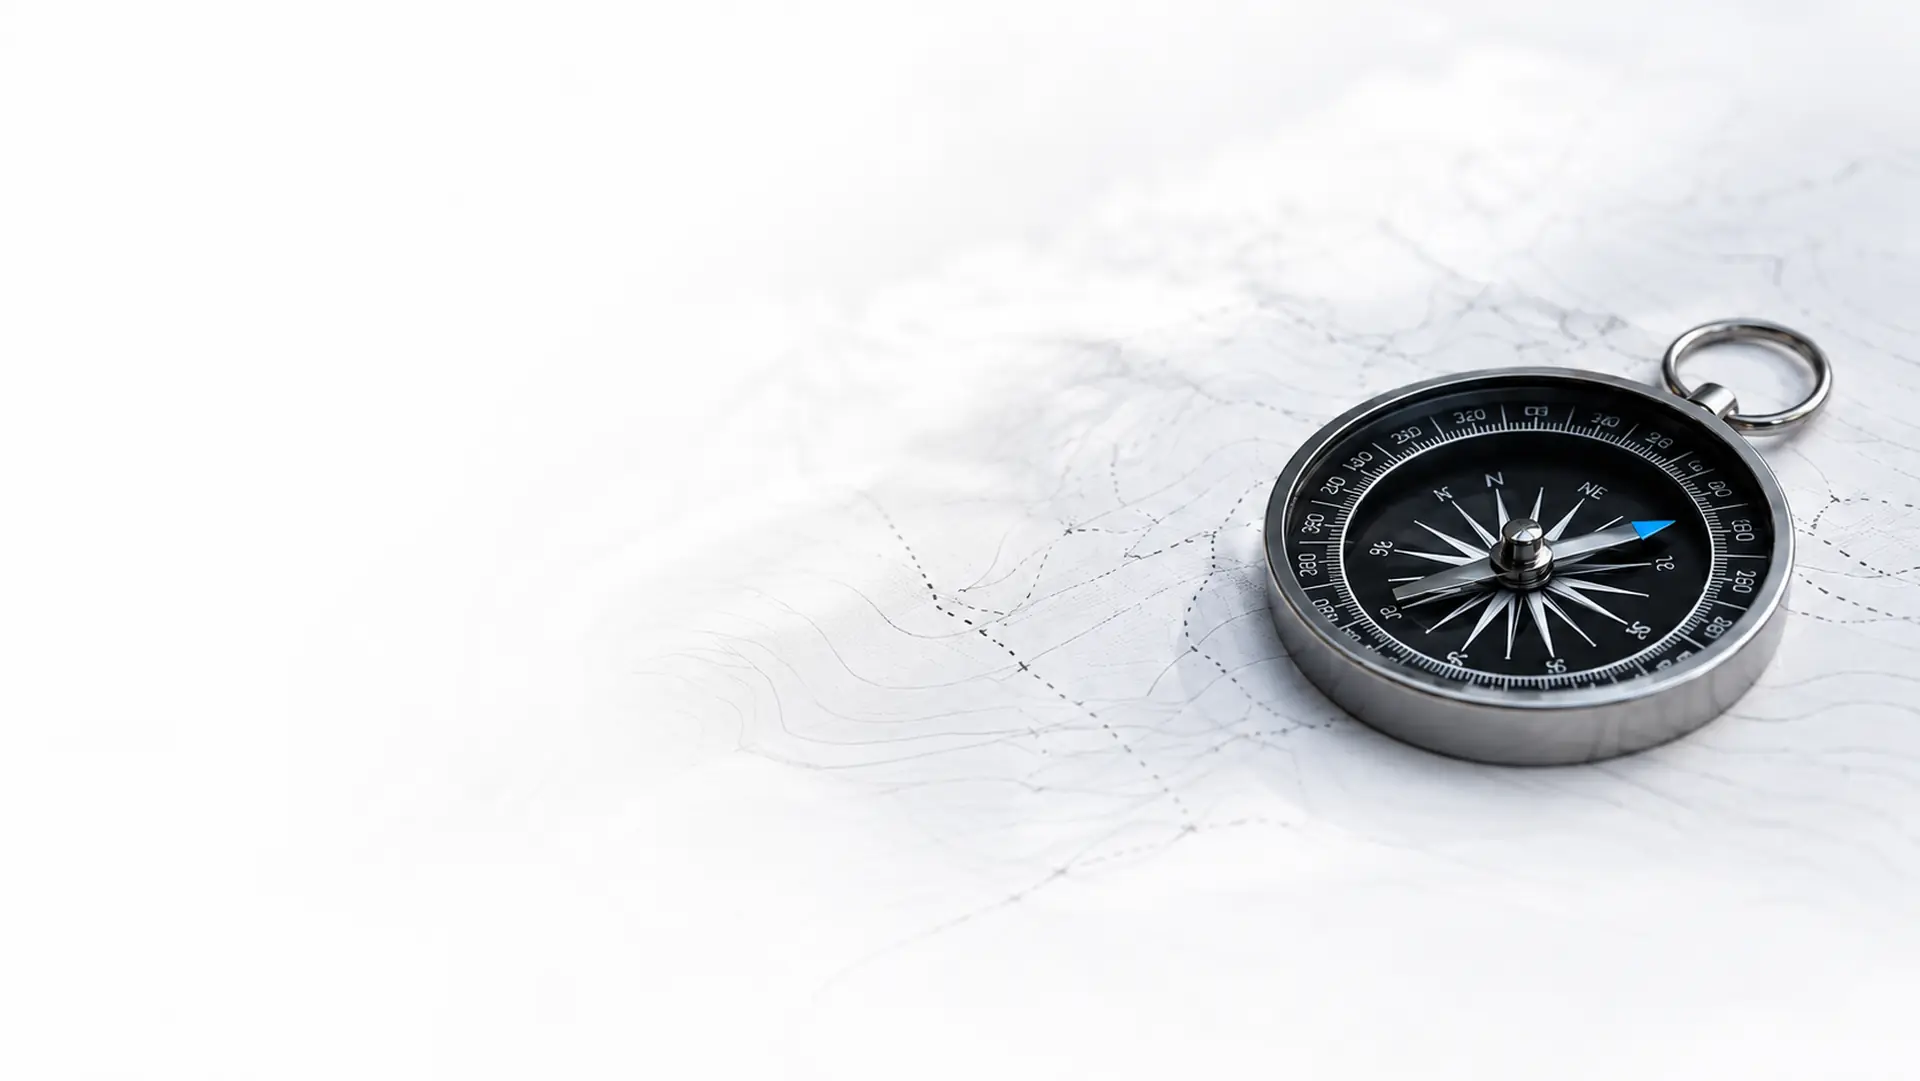
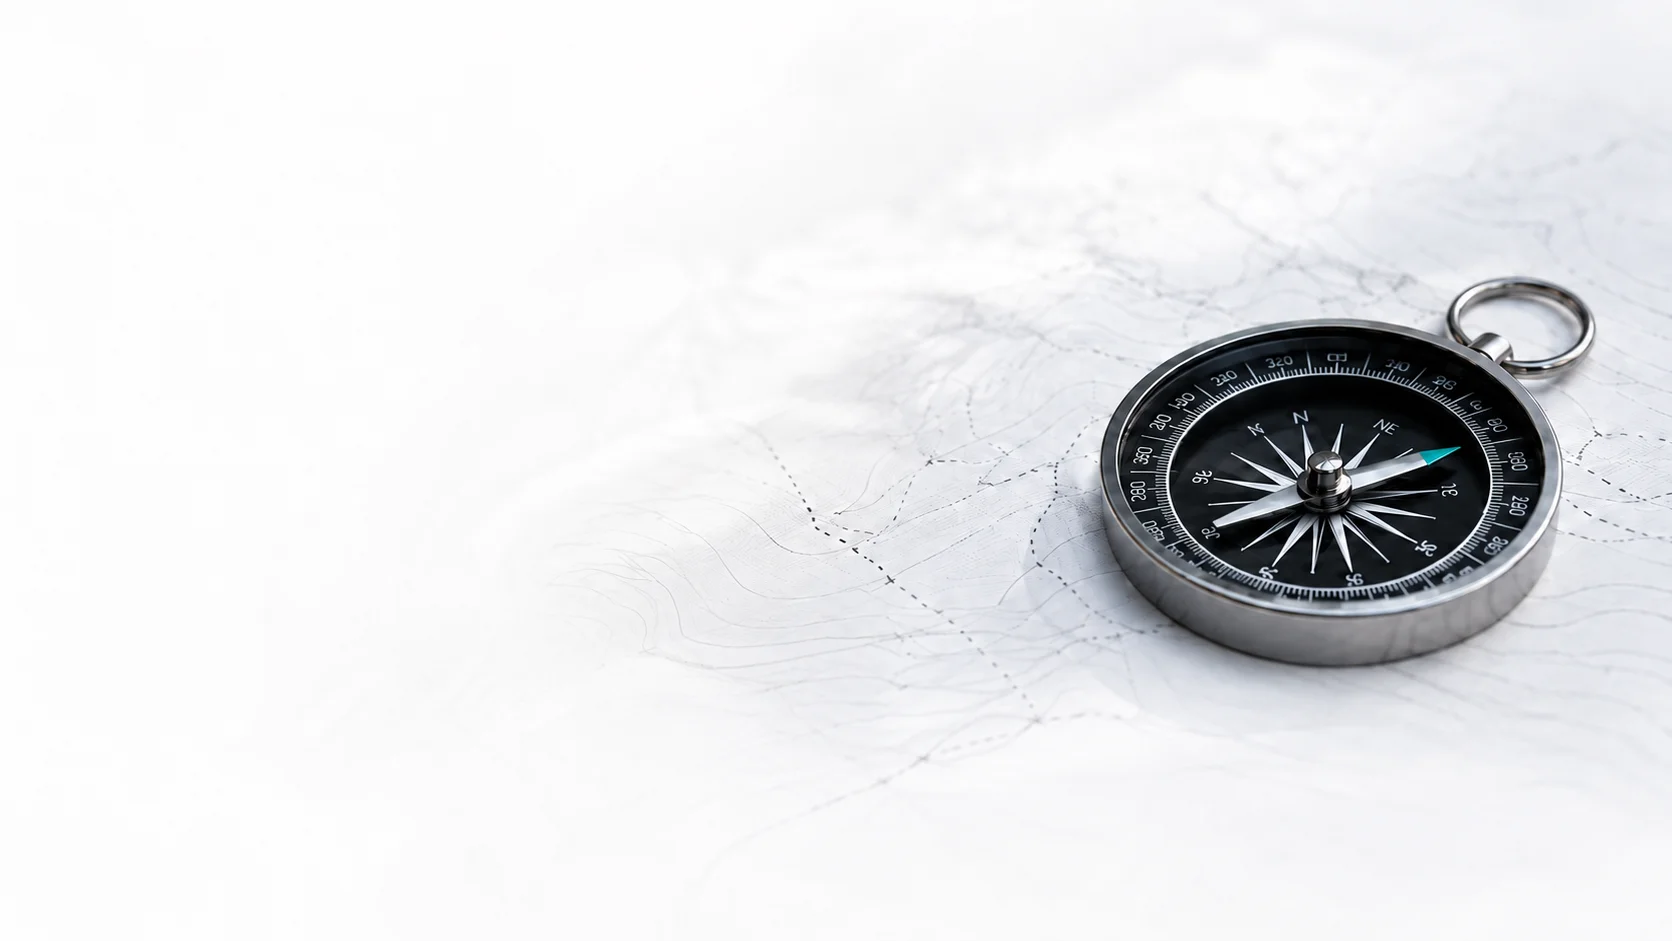
Check-Platzhalter auf 790px erhöht (Schritte 4/5/7 höher als 735px — Hero-Höhe je Schritt jetzt stabil, verifiziert bei 1024/1280/1440); Kompass-Bild mit Petrol-Nadel
Claude-Session: https://claude.ai/code/session_01QP5mUDfH4BzL2RbXfNbxPE

Changed region(s): [[0.6531, 0.339, 0.933, 0.6472], [0.8708, 0.3082, 0.9641, 0.4006], [0.8397, 0.4006, 0.8708, 0.4315]]

diff --git a/styles.css b/styles.css
@@ -188,7 +188,7 @@ img{max-width:100%;display:block}
 /* Desktop: fester Platzhalter in Höhe des größten Schritts —
    der Hero bleibt stabil 100vh, die Karte atmet nach unten ins Bild */
 .check-side{position:relative}
-@media (min-width:961px){.check-side{min-height:735px}}
+@media (min-width:961px){.check-side{min-height:790px}}
 .handnote{display:flex;align-items:flex-start;gap:.5rem;margin-bottom:.4rem;
   color:var(--blue);font-family:"Caveat",cursive;font-size:clamp(1.6rem,2.4vw,2.1rem);font-weight:700;
   transform:rotate(-2deg);line-height:1;padding-left:.4rem}
